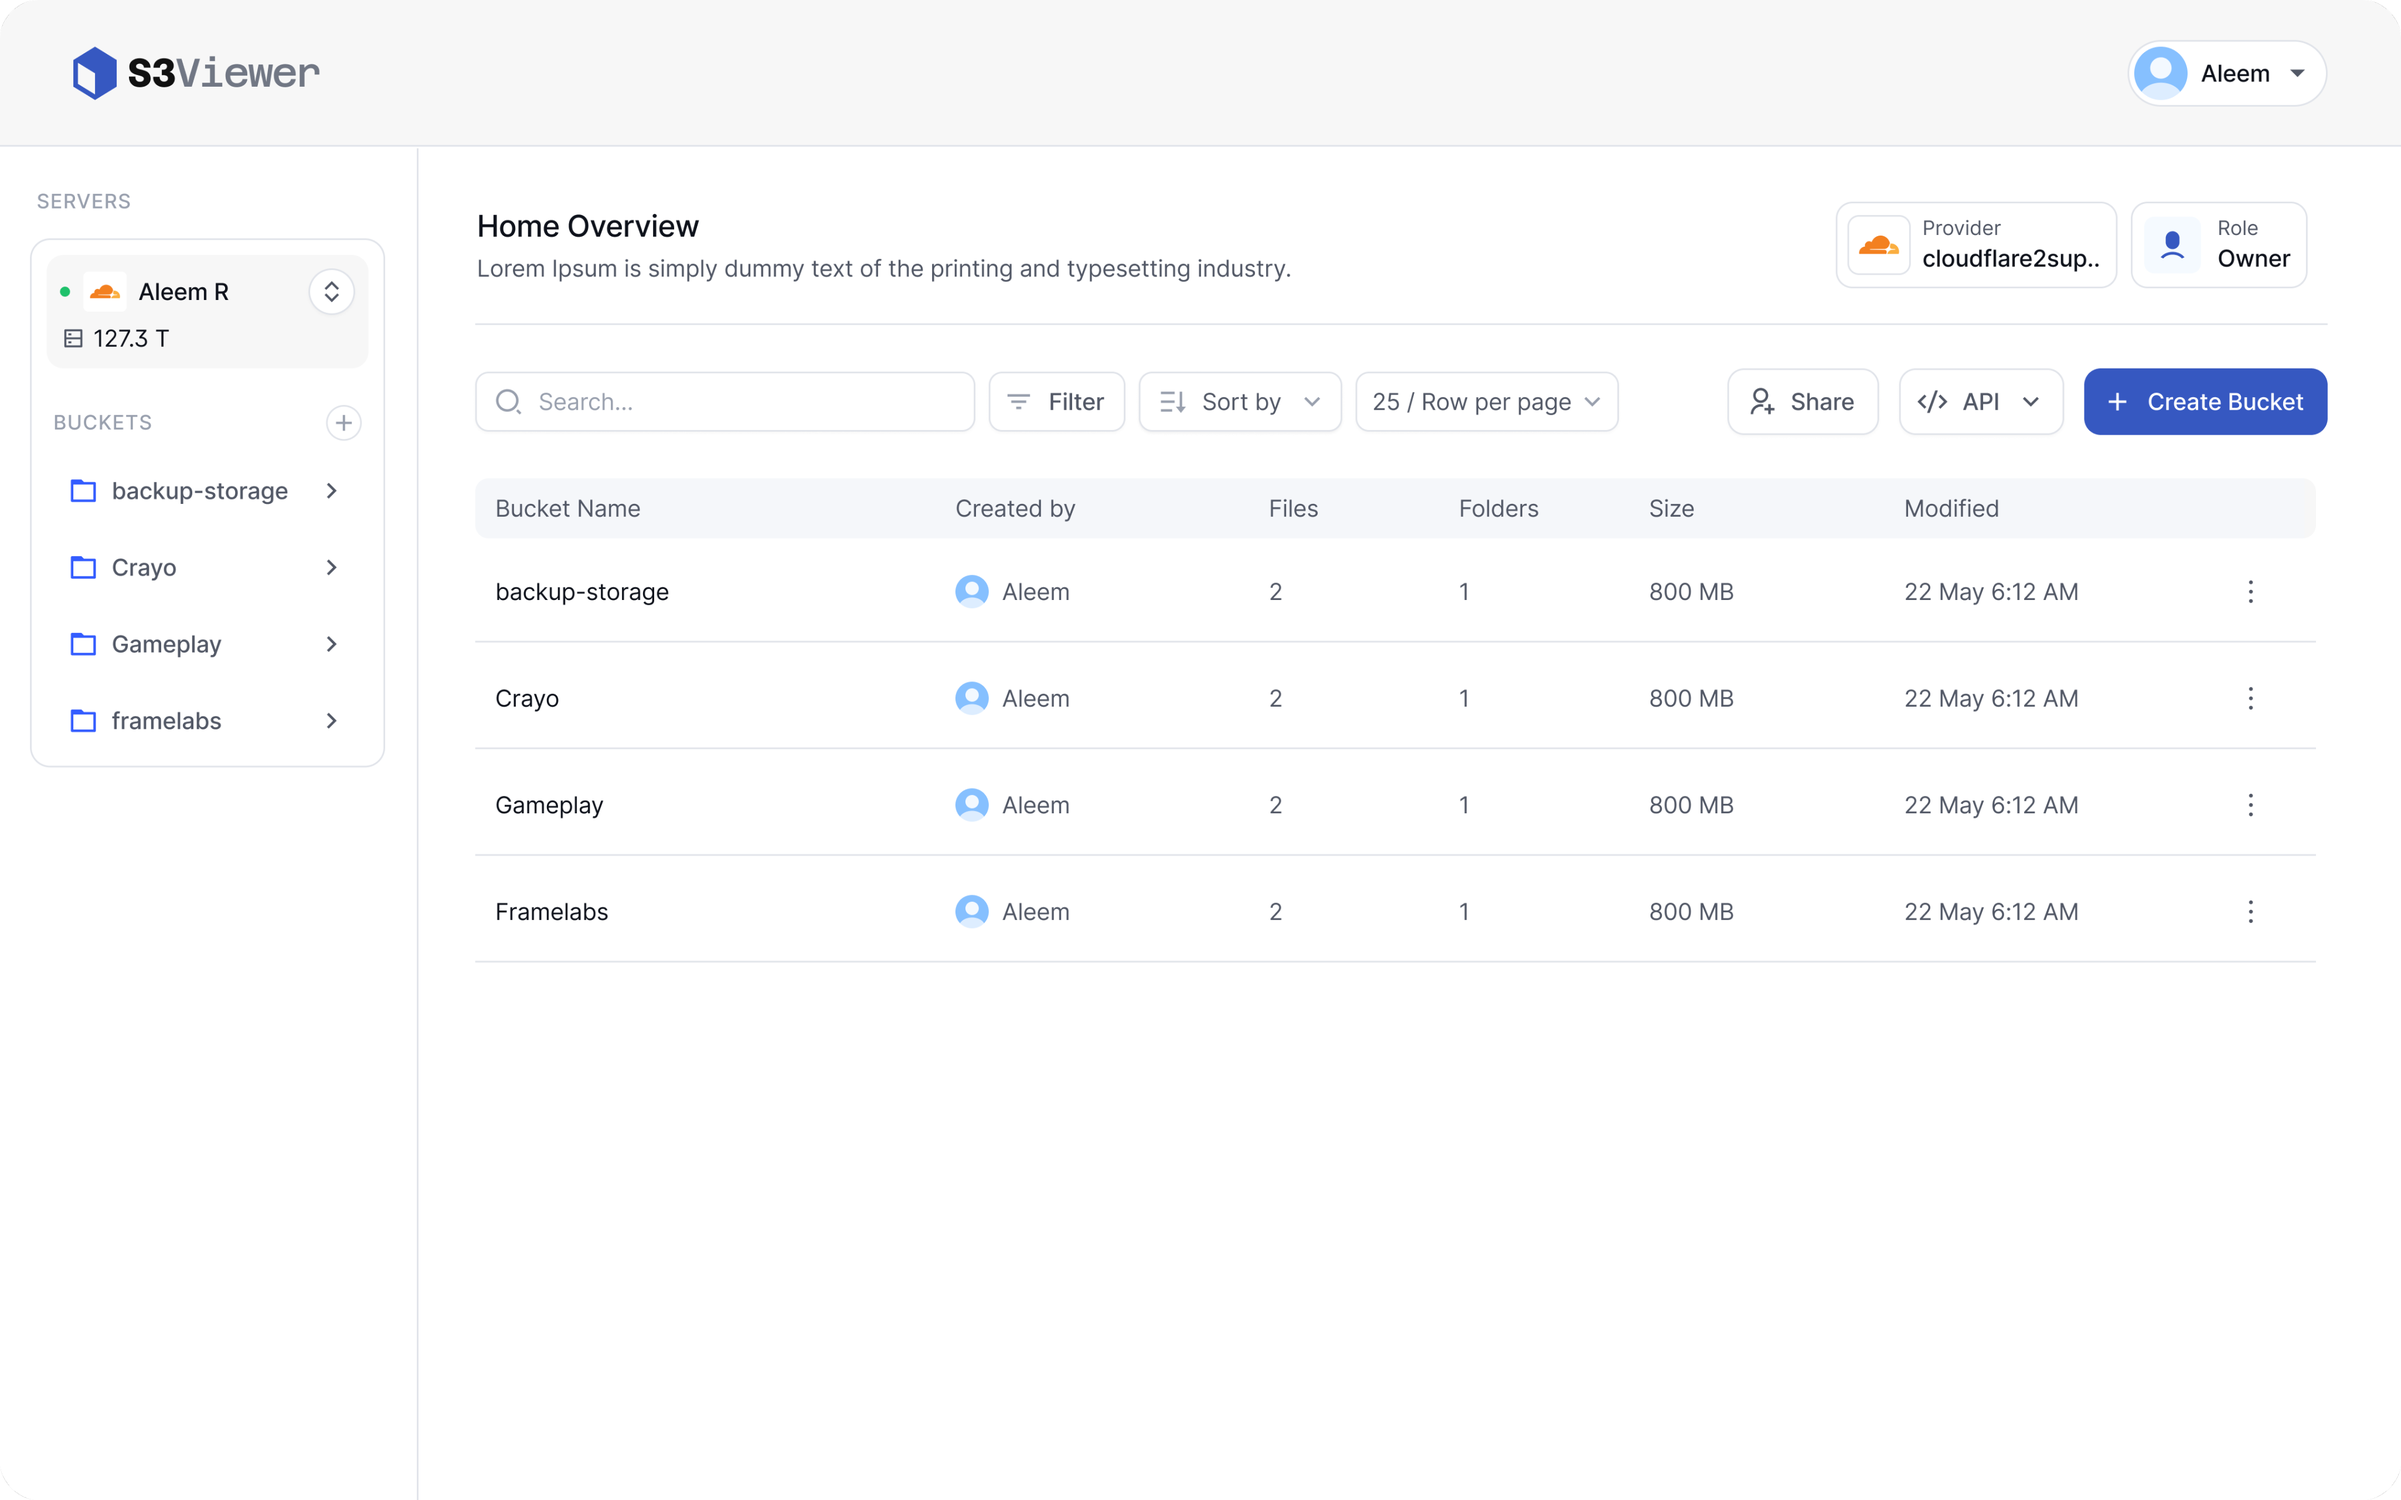
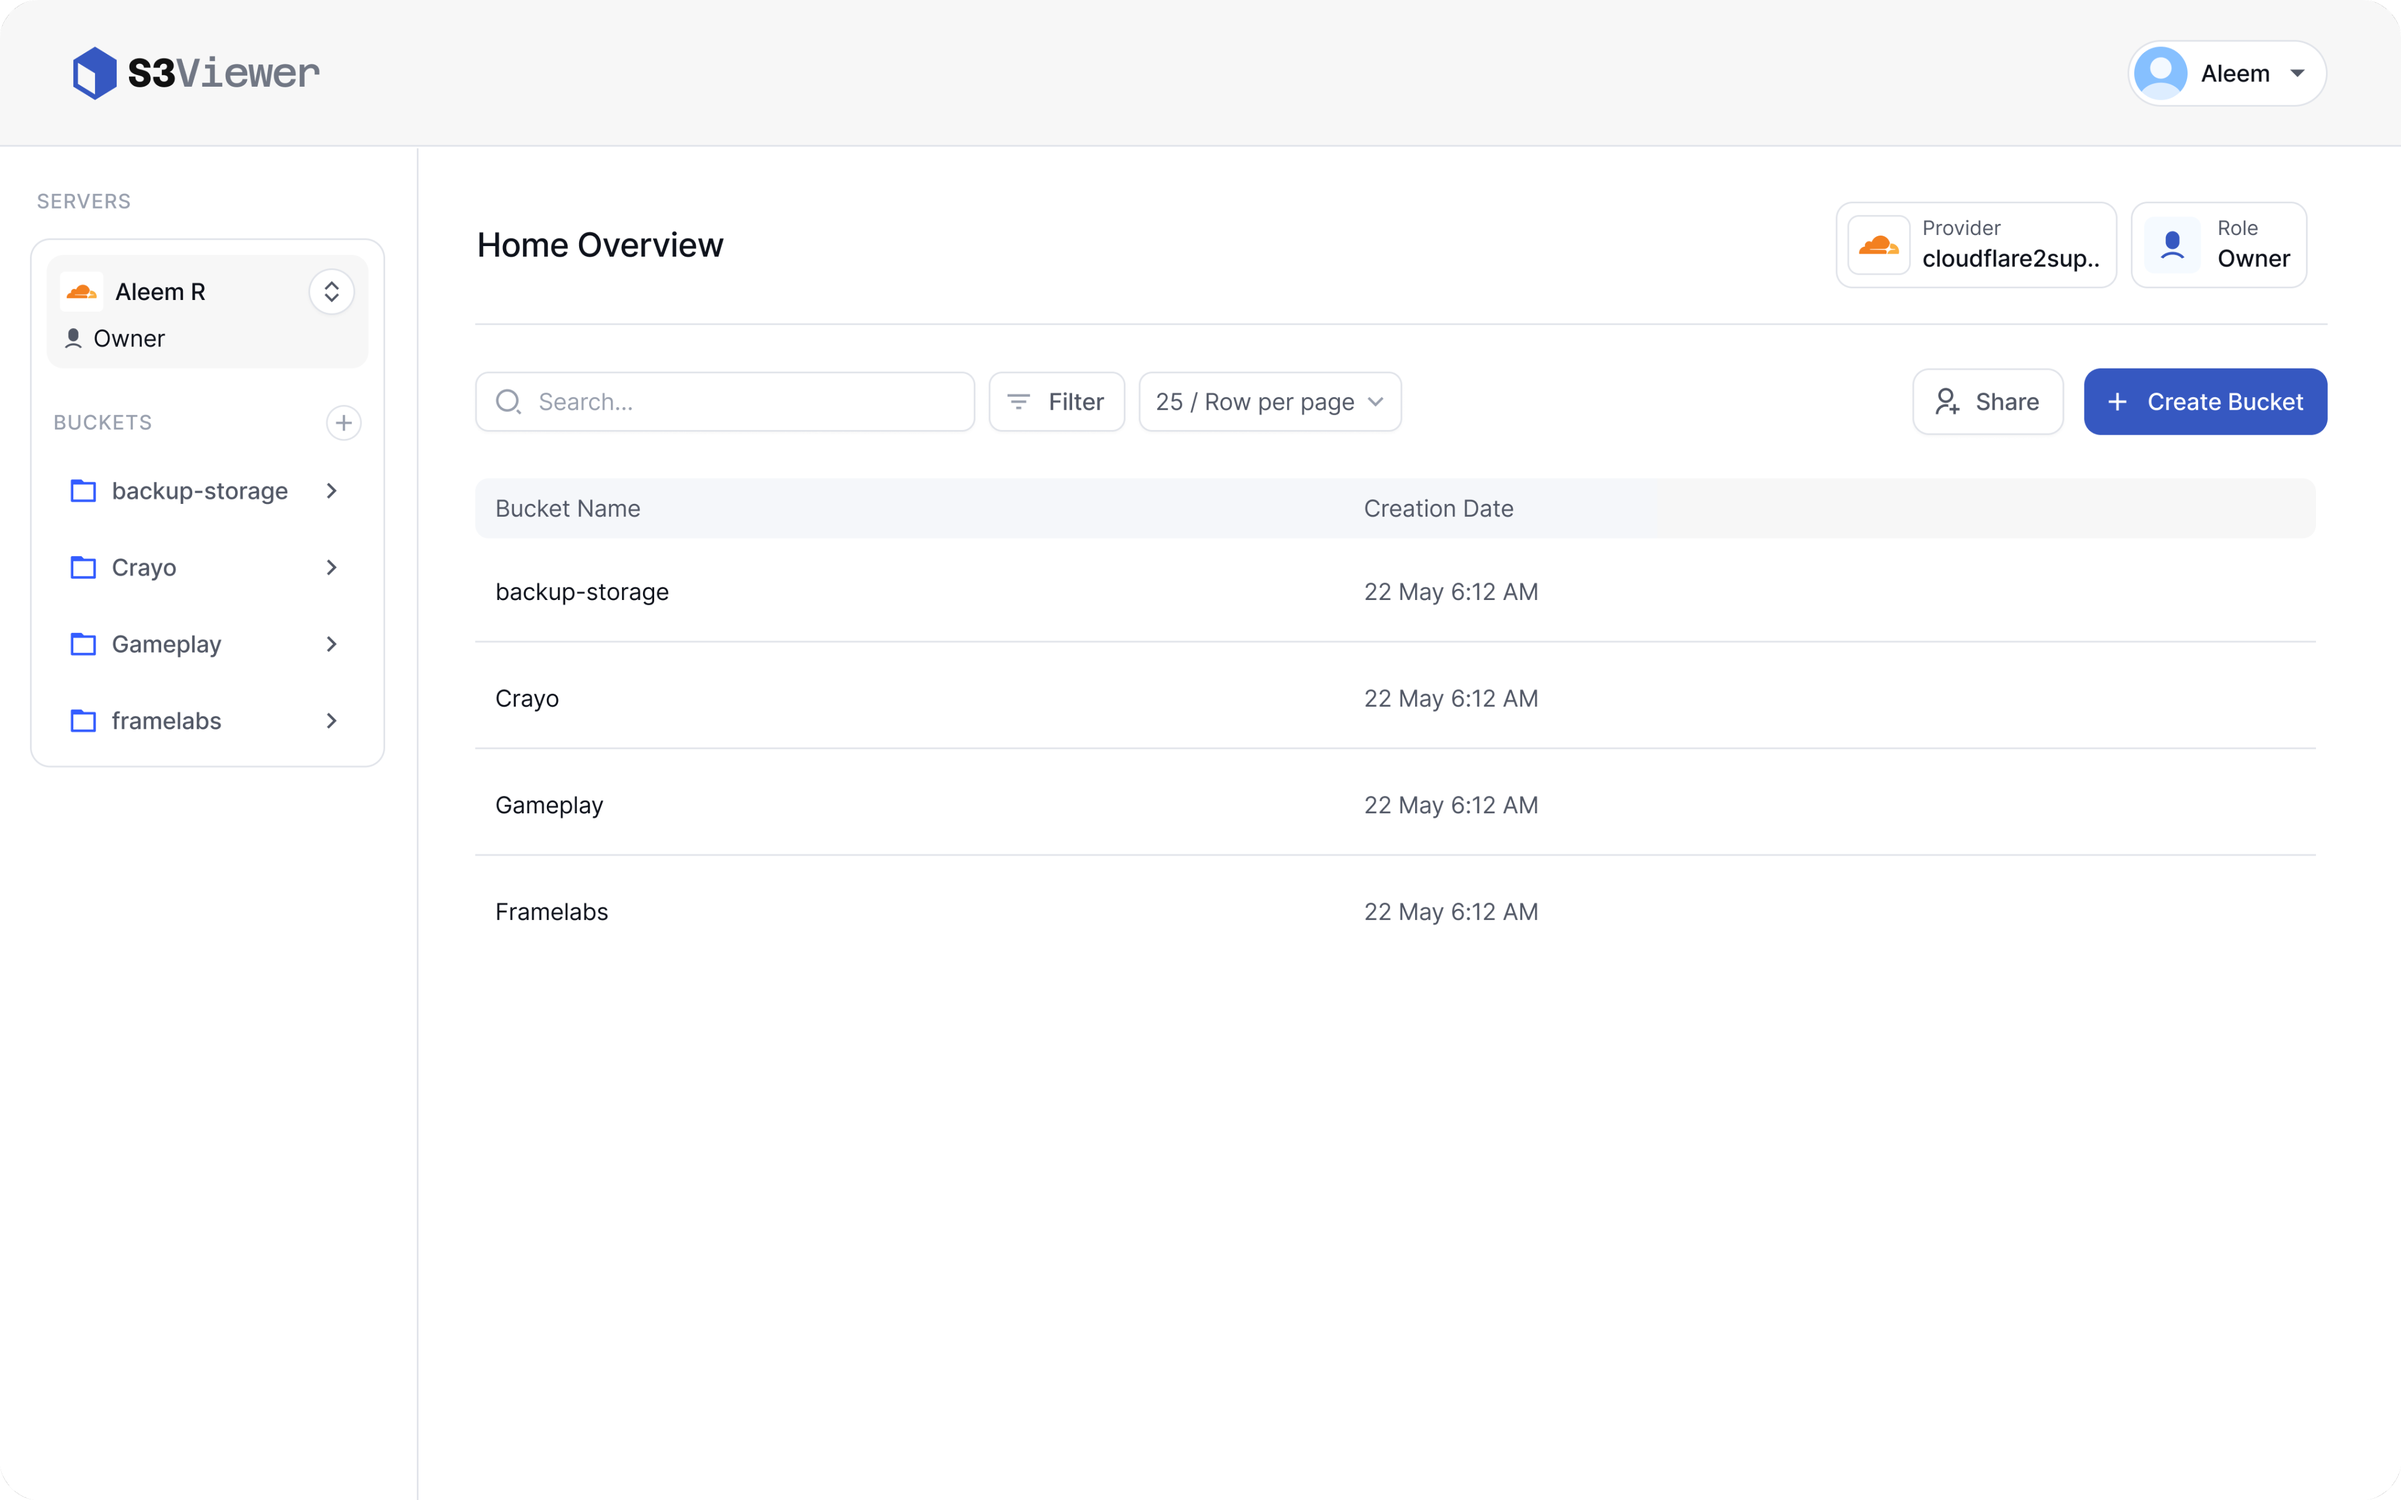
Updated landing app assets

diff --git a/apps/landing/components/Landing/intro-block.tsx b/apps/landing/components/Landing/intro-block.tsx
@@ -41,7 +41,7 @@ const IntroBlock = () => {
          <div className="flex-1 bg-viewerblue bg-[url('/landing/grain-filter.svg')] bg-blend-multiply p-8 flex justify-center items-center">
             <Image
                src="/landing/bucketview.png"
-               alt="Intro Block"
+               alt="Home Overview"
                width={600}
                height={500}
                quality={100}
